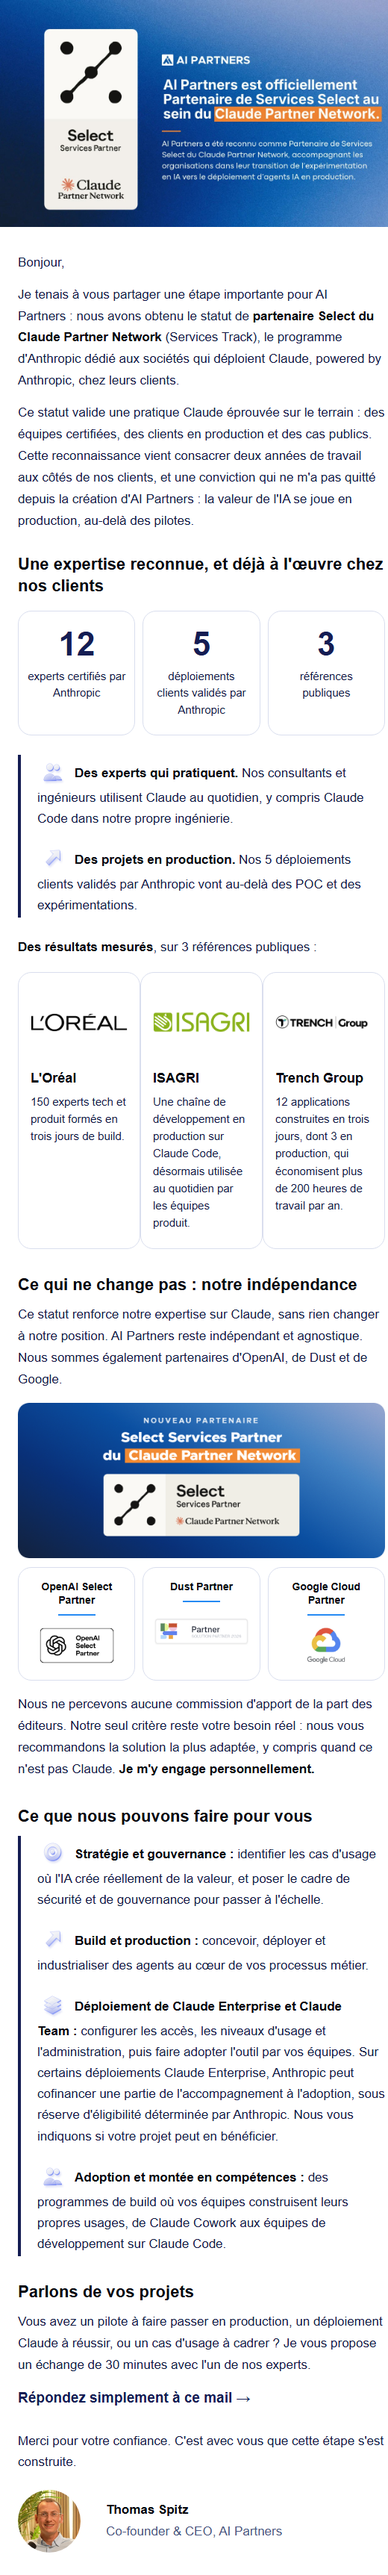
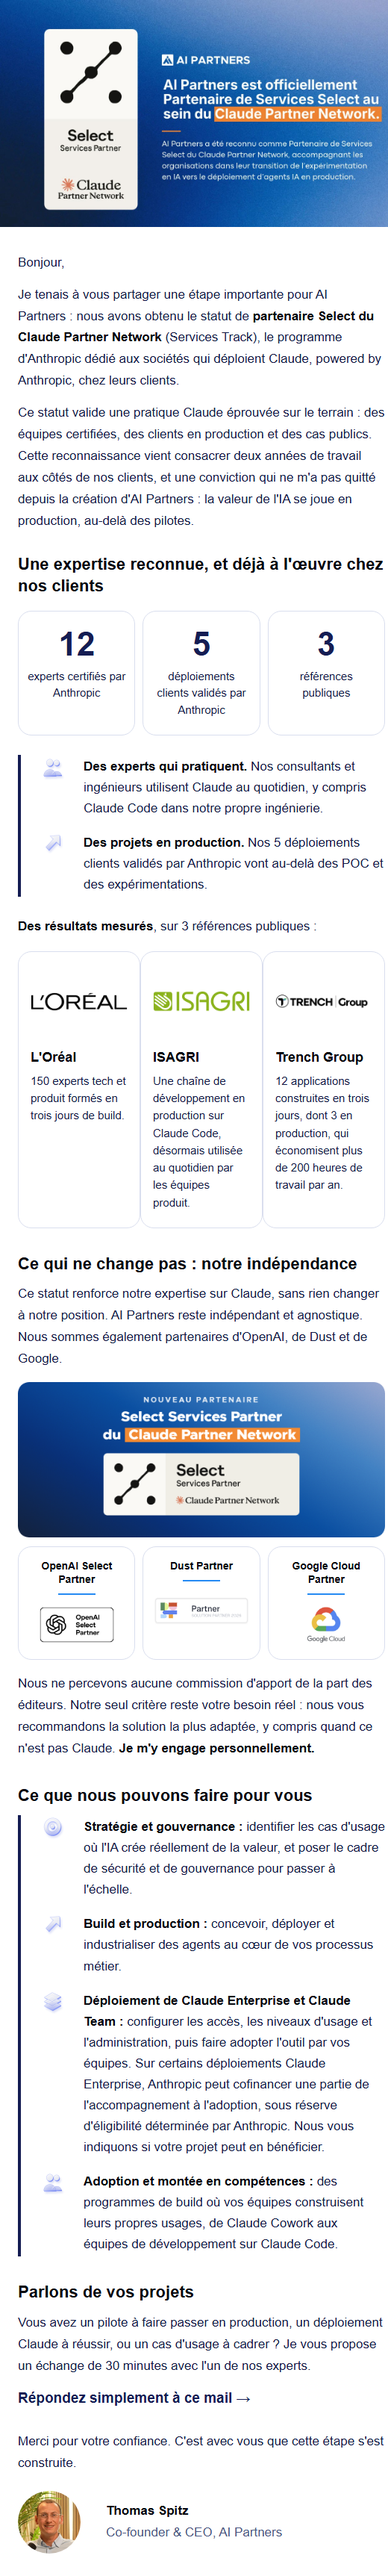
Mail d'annonce v2 : icône à gauche, texte aligné à droite dans les listes (retour d'Arthur 16/11)

diff --git a/PRESENTATIONS/2026-11_newsletter_anthropic_select/v2/email_hubspot_module.html b/PRESENTATIONS/2026-11_newsletter_anthropic_select/v2/email_hubspot_module.html
@@ -7,12 +7,12 @@
 <tr><td style="padding:0 4px 30px 4px;font-family:Helvetica, Arial, sans-serif;font-size:17px;line-height:1.7;color:#141B45">Ce statut valide une pratique Claude éprouvée sur le terrain&nbsp;: des équipes certifiées, des clients en production et des cas publics. Cette reconnaissance vient consacrer deux années de travail aux côtés de nos clients, et une conviction qui ne m'a pas quitté depuis la création d'AI Partners&nbsp;: la valeur de l'IA se joue en production, au-delà des pilotes.</td></tr>
 <tr><td style="padding:0px 4px 12px 4px"><h2 style="margin:0;font-family:Helvetica, Arial, sans-serif;font-size:22px;line-height:1.3;font-weight:bold;color:#05070F">Une expertise reconnue, et déjà à l'œuvre chez nos clients</h2></td></tr>
 <tr><td style="padding:6px 4px 26px 4px"><table role="presentation" width="100%" cellpadding="0" cellspacing="0" style="border-collapse:separate"><tr><td valign="top" width="32%" align="center" bgcolor="#FFFFFF" style="width:32%;background-color:#FFFFFF;border:1px solid #D9DEEE;border-radius:18px;padding:22px 12px 22px 12px;text-align:center"><div style="font-family:Helvetica, Arial, sans-serif;font-size:44px;line-height:1;font-weight:bold;color:#151D53">12</div><div style="padding-top:10px;font-family:Helvetica, Arial, sans-serif;font-size:15px;line-height:1.5;color:#141B45">experts certifiés par Anthropic</div></td><td width="2%" style="width:2%;font-size:0;line-height:0">&nbsp;</td><td valign="top" width="32%" align="center" bgcolor="#FFFFFF" style="width:32%;background-color:#FFFFFF;border:1px solid #D9DEEE;border-radius:18px;padding:22px 12px 22px 12px;text-align:center"><div style="font-family:Helvetica, Arial, sans-serif;font-size:44px;line-height:1;font-weight:bold;color:#151D53">5</div><div style="padding-top:10px;font-family:Helvetica, Arial, sans-serif;font-size:15px;line-height:1.5;color:#141B45">déploiements clients validés par Anthropic</div></td><td width="2%" style="width:2%;font-size:0;line-height:0">&nbsp;</td><td valign="top" width="32%" align="center" bgcolor="#FFFFFF" style="width:32%;background-color:#FFFFFF;border:1px solid #D9DEEE;border-radius:18px;padding:22px 12px 22px 12px;text-align:center"><div style="font-family:Helvetica, Arial, sans-serif;font-size:44px;line-height:1;font-weight:bold;color:#151D53">3</div><div style="padding-top:10px;font-family:Helvetica, Arial, sans-serif;font-size:15px;line-height:1.5;color:#141B45">références publiques</div></td></tr></table></td></tr>
-<tr><td style="padding:0 4px 26px 4px"><table role="presentation" width="100%" cellpadding="0" cellspacing="0"><tr><td style="border-left:4px solid #151D53;padding:2px 0 2px 22px;font-family:Helvetica, Arial, sans-serif;font-size:17px;line-height:1.65;color:#141B45"><div style="padding:0 0 18px 0"><img src="https://arthurw31.github.io/ai-partners-podcast-content-machine/newsletters/anthropic-select/v2/verre_users_42.png" width="42" height="42" alt="" style="display:inline-block;vertical-align:-14px;border:0;width:42px;height:42px;margin-right:8px"><strong style="color:#05070F">Des experts qui pratiquent.</strong> Nos consultants et ingénieurs utilisent Claude au quotidien, y compris Claude Code dans notre propre ingénierie.</div><div style="padding:0"><img src="https://arthurw31.github.io/ai-partners-podcast-content-machine/newsletters/anthropic-select/v2/verre_rocket_42.png" width="42" height="42" alt="" style="display:inline-block;vertical-align:-14px;border:0;width:42px;height:42px;margin-right:8px"><strong style="color:#05070F">Des projets en production.</strong> Nos 5 déploiements clients validés par Anthropic vont au-delà des POC et des expérimentations.</div></td></tr></table></td></tr>
+<tr><td style="padding:0 4px 26px 4px"><table role="presentation" width="100%" cellpadding="0" cellspacing="0"><tr><td style="border-left:4px solid #151D53;padding:2px 0 2px 22px;font-family:Helvetica, Arial, sans-serif;font-size:17px;line-height:1.65;color:#141B45"><table role="presentation" width="100%" cellpadding="0" cellspacing="0"><tr><td valign="top" width="52" style="width:52px;padding:0 10px 0 0"><img src="https://arthurw31.github.io/ai-partners-podcast-content-machine/newsletters/anthropic-select/v2/verre_users_42.png" width="42" height="42" alt="" style="display:block;border:0;width:42px;height:42px;margin-top:-6px"></td><td valign="top" style="padding:0 0 18px 0;font-family:Helvetica, Arial, sans-serif;font-size:17px;line-height:1.65;color:#141B45"><strong style="color:#05070F">Des experts qui pratiquent.</strong> Nos consultants et ingénieurs utilisent Claude au quotidien, y compris Claude Code dans notre propre ingénierie.</td></tr></table><table role="presentation" width="100%" cellpadding="0" cellspacing="0"><tr><td valign="top" width="52" style="width:52px;padding:0 10px 0 0"><img src="https://arthurw31.github.io/ai-partners-podcast-content-machine/newsletters/anthropic-select/v2/verre_rocket_42.png" width="42" height="42" alt="" style="display:block;border:0;width:42px;height:42px;margin-top:-6px"></td><td valign="top" style="padding:0 0 0 0;font-family:Helvetica, Arial, sans-serif;font-size:17px;line-height:1.65;color:#141B45"><strong style="color:#05070F">Des projets en production.</strong> Nos 5 déploiements clients validés par Anthropic vont au-delà des POC et des expérimentations.</td></tr></table></td></tr></table></td></tr>
 <tr><td style="padding:0 4px 14px 4px;font-family:Helvetica, Arial, sans-serif;font-size:17px;line-height:1.7;color:#141B45"><strong style="color:#05070F">Des résultats mesurés</strong>, sur 3 références publiques&nbsp;:</td></tr>
 <tr><td style="padding:4px 4px 34px 4px"><table role="presentation" width="100%" cellpadding="0" cellspacing="0" style="border-collapse:separate"><tr><td valign="top" width="32%" bgcolor="#FFFFFF" style="width:32%;background-color:#FFFFFF;border:1px solid #D9DEEE;border-radius:18px;padding:18px 16px 22px 16px"><table role="presentation" width="100%" cellpadding="0" cellspacing="0"><tr><td height="96" align="center" valign="middle" style="height:96px"><img src="https://arthurw31.github.io/ai-partners-podcast-content-machine/newsletters/anthropic-select/v2/client_loreal.png" width="130" height="25" alt="L'Oréal" style="display:block;border:0;width:130px;height:25px;margin:0 auto"></td></tr></table><div style="padding:16px 0 8px 0;font-family:Helvetica, Arial, sans-serif;font-size:18px;line-height:1.25;font-weight:bold;color:#05070F">L'Oréal</div><div style="font-family:Helvetica, Arial, sans-serif;font-size:15px;line-height:1.55;color:#141B45">150 experts tech et produit formés en trois jours de build.</div></td><td width="2%" style="width:2%;font-size:0;line-height:0">&nbsp;</td><td valign="top" width="32%" bgcolor="#FFFFFF" style="width:32%;background-color:#FFFFFF;border:1px solid #D9DEEE;border-radius:18px;padding:18px 16px 22px 16px"><table role="presentation" width="100%" cellpadding="0" cellspacing="0"><tr><td height="96" align="center" valign="middle" style="height:96px"><img src="https://arthurw31.github.io/ai-partners-podcast-content-machine/newsletters/anthropic-select/v2/client_isagri.png" width="130" height="28" alt="ISAGRI" style="display:block;border:0;width:130px;height:28px;margin:0 auto"></td></tr></table><div style="padding:16px 0 8px 0;font-family:Helvetica, Arial, sans-serif;font-size:18px;line-height:1.25;font-weight:bold;color:#05070F">ISAGRI</div><div style="font-family:Helvetica, Arial, sans-serif;font-size:15px;line-height:1.55;color:#141B45">Une chaîne de développement en production sur Claude Code, désormais utilisée au quotidien par les équipes produit.</div></td><td width="2%" style="width:2%;font-size:0;line-height:0">&nbsp;</td><td valign="top" width="32%" bgcolor="#FFFFFF" style="width:32%;background-color:#FFFFFF;border:1px solid #D9DEEE;border-radius:18px;padding:18px 16px 22px 16px"><table role="presentation" width="100%" cellpadding="0" cellspacing="0"><tr><td height="96" align="center" valign="middle" style="height:96px"><img src="https://arthurw31.github.io/ai-partners-podcast-content-machine/newsletters/anthropic-select/v2/client_trench.png" width="130" height="18" alt="Trench Group" style="display:block;border:0;width:130px;height:18px;margin:0 auto"></td></tr></table><div style="padding:16px 0 8px 0;font-family:Helvetica, Arial, sans-serif;font-size:18px;line-height:1.25;font-weight:bold;color:#05070F">Trench Group</div><div style="font-family:Helvetica, Arial, sans-serif;font-size:15px;line-height:1.55;color:#141B45">12 applications construites en trois jours, dont 3 en production, qui économisent plus de 200 heures de travail par an.</div></td></tr></table></td></tr>
 <tr><td style="padding:0px 4px 12px 4px"><h2 style="margin:0;font-family:Helvetica, Arial, sans-serif;font-size:22px;line-height:1.3;font-weight:bold;color:#05070F">Ce qui ne change pas&nbsp;: notre indépendance</h2></td></tr><tr><td style="padding:0 4px 16px 4px;font-family:Helvetica, Arial, sans-serif;font-size:17px;line-height:1.7;color:#141B45">Ce statut renforce notre expertise sur Claude, sans rien changer à notre position. AI Partners reste indépendant et agnostique. Nous sommes également partenaires d'OpenAI, de Dust et de Google.</td></tr><tr><td style="padding:0 4px"><img src="https://arthurw31.github.io/ai-partners-podcast-content-machine/newsletters/anthropic-select/v2/encadre_nouveau_partenaire.png" width="592" height="250" alt="Nouveau partenaire : Select Services Partner du Claude Partner Network" style="display:block;border:0;width:592px;height:250px;width:100%;max-width:592px;height:auto"><div style="height:12px;font-size:0;line-height:0">&nbsp;</div><table role="presentation" width="100%" cellpadding="0" cellspacing="0" style="border-collapse:separate"><tr><td width="32%" valign="top" align="center" bgcolor="#FFFFFF" style="width:32%;border:1px solid #D9DEEE;border-radius:18px;padding:16px 6px 18px 6px;font-family:Helvetica, Arial, sans-serif;text-align:center"><div style="font-size:14px;line-height:1.3;font-weight:bold;color:#05070F">OpenAI Select Partner</div><table role="presentation" align="center" cellpadding="0" cellspacing="0" style="margin:10px auto 12px auto"><tr><td width="50" height="2" bgcolor="#258AF3" style="width:50px;height:2px;font-size:0;line-height:0">&nbsp;</td></tr></table><table role="presentation" align="center" cellpadding="0" cellspacing="0"><tr><td height="56" valign="middle" align="center" style="height:56px"><img src="https://arthurw31.github.io/ai-partners-podcast-content-machine/newsletters/anthropic-select/v2/partenaire_openai.png" width="106" height="54" alt="OpenAI Select Partner" style="display:block;border:0;width:106px;height:54px;"></td></tr></table></td><td width="2%" style="width:2%;font-size:0;line-height:0">&nbsp;</td><td width="32%" valign="top" align="center" bgcolor="#FFFFFF" style="width:32%;border:1px solid #D9DEEE;border-radius:18px;padding:16px 6px 18px 6px;font-family:Helvetica, Arial, sans-serif;text-align:center"><div style="font-size:14px;line-height:1.3;font-weight:bold;color:#05070F">Dust Partner</div><table role="presentation" align="center" cellpadding="0" cellspacing="0" style="margin:10px auto 12px auto"><tr><td width="50" height="2" bgcolor="#258AF3" style="width:50px;height:2px;font-size:0;line-height:0">&nbsp;</td></tr></table><table role="presentation" align="center" cellpadding="0" cellspacing="0"><tr><td height="56" valign="middle" align="center" style="height:56px"><img src="https://arthurw31.github.io/ai-partners-podcast-content-machine/newsletters/anthropic-select/v2/partenaire_dust.png" width="130" height="39" alt="Dust Partner" style="display:block;border:0;width:130px;height:39px;"></td></tr></table></td><td width="2%" style="width:2%;font-size:0;line-height:0">&nbsp;</td><td width="32%" valign="top" align="center" bgcolor="#FFFFFF" style="width:32%;border:1px solid #D9DEEE;border-radius:18px;padding:16px 6px 18px 6px;font-family:Helvetica, Arial, sans-serif;text-align:center"><div style="font-size:14px;line-height:1.3;font-weight:bold;color:#05070F">Google Cloud Partner</div><table role="presentation" align="center" cellpadding="0" cellspacing="0" style="margin:10px auto 12px auto"><tr><td width="50" height="2" bgcolor="#258AF3" style="width:50px;height:2px;font-size:0;line-height:0">&nbsp;</td></tr></table><table role="presentation" align="center" cellpadding="0" cellspacing="0"><tr><td height="56" valign="middle" align="center" style="height:56px"><img src="https://arthurw31.github.io/ai-partners-podcast-content-machine/newsletters/anthropic-select/v2/partenaire_google.png" width="58" height="56" alt="Google Cloud Partner" style="display:block;border:0;width:58px;height:56px;"></td></tr></table></td></tr></table></td></tr><tr><td style="padding:18px 4px 34px 4px;font-family:Helvetica, Arial, sans-serif;font-size:17px;line-height:1.7;color:#141B45">Nous ne percevons aucune commission d'apport de la part des éditeurs. Notre seul critère reste votre besoin réel&nbsp;: nous vous recommandons la solution la plus adaptée, y compris quand ce n'est pas Claude. <strong style="color:#05070F">Je m'y engage personnellement.</strong></td></tr>
 <tr><td style="padding:0px 4px 12px 4px"><h2 style="margin:0;font-family:Helvetica, Arial, sans-serif;font-size:22px;line-height:1.3;font-weight:bold;color:#05070F">Ce que nous pouvons faire pour vous</h2></td></tr>
-<tr><td style="padding:0 4px 26px 4px"><table role="presentation" width="100%" cellpadding="0" cellspacing="0"><tr><td style="border-left:4px solid #151D53;padding:2px 0 2px 22px;font-family:Helvetica, Arial, sans-serif;font-size:17px;line-height:1.65;color:#141B45"><div style="padding:0 0 18px 0"><img src="https://arthurw31.github.io/ai-partners-podcast-content-machine/newsletters/anthropic-select/v2/verre_target_42.png" width="42" height="42" alt="" style="display:inline-block;vertical-align:-14px;border:0;width:42px;height:42px;margin-right:8px"><strong style="color:#05070F">Stratégie et gouvernance&nbsp;:</strong> identifier les cas d'usage où l'IA crée réellement de la valeur, et poser le cadre de sécurité et de gouvernance pour passer à l'échelle.</div><div style="padding:0 0 18px 0"><img src="https://arthurw31.github.io/ai-partners-podcast-content-machine/newsletters/anthropic-select/v2/verre_rocket_42.png" width="42" height="42" alt="" style="display:inline-block;vertical-align:-14px;border:0;width:42px;height:42px;margin-right:8px"><strong style="color:#05070F">Build et production&nbsp;:</strong> concevoir, déployer et industrialiser des agents au cœur de vos processus métier.</div><div style="padding:0 0 18px 0"><img src="https://arthurw31.github.io/ai-partners-podcast-content-machine/newsletters/anthropic-select/v2/verre_layers_42.png" width="42" height="42" alt="" style="display:inline-block;vertical-align:-14px;border:0;width:42px;height:42px;margin-right:8px"><strong style="color:#05070F">Déploiement de Claude Enterprise et Claude Team&nbsp;:</strong> configurer les accès, les niveaux d'usage et l'administration, puis faire adopter l'outil par vos équipes. Sur certains déploiements Claude Enterprise, Anthropic peut cofinancer une partie de l'accompagnement à l'adoption, sous réserve d'éligibilité déterminée par Anthropic. Nous vous indiquons si votre projet peut en bénéficier.</div><div style="padding:0"><img src="https://arthurw31.github.io/ai-partners-podcast-content-machine/newsletters/anthropic-select/v2/verre_users_42.png" width="42" height="42" alt="" style="display:inline-block;vertical-align:-14px;border:0;width:42px;height:42px;margin-right:8px"><strong style="color:#05070F">Adoption et montée en compétences&nbsp;:</strong> des programmes de build où vos équipes construisent leurs propres usages, de Claude Cowork aux équipes de développement sur Claude Code.</div></td></tr></table></td></tr>
+<tr><td style="padding:0 4px 26px 4px"><table role="presentation" width="100%" cellpadding="0" cellspacing="0"><tr><td style="border-left:4px solid #151D53;padding:2px 0 2px 22px;font-family:Helvetica, Arial, sans-serif;font-size:17px;line-height:1.65;color:#141B45"><table role="presentation" width="100%" cellpadding="0" cellspacing="0"><tr><td valign="top" width="52" style="width:52px;padding:0 10px 0 0"><img src="https://arthurw31.github.io/ai-partners-podcast-content-machine/newsletters/anthropic-select/v2/verre_target_42.png" width="42" height="42" alt="" style="display:block;border:0;width:42px;height:42px;margin-top:-6px"></td><td valign="top" style="padding:0 0 18px 0;font-family:Helvetica, Arial, sans-serif;font-size:17px;line-height:1.65;color:#141B45"><strong style="color:#05070F">Stratégie et gouvernance&nbsp;:</strong> identifier les cas d'usage où l'IA crée réellement de la valeur, et poser le cadre de sécurité et de gouvernance pour passer à l'échelle.</td></tr></table><table role="presentation" width="100%" cellpadding="0" cellspacing="0"><tr><td valign="top" width="52" style="width:52px;padding:0 10px 0 0"><img src="https://arthurw31.github.io/ai-partners-podcast-content-machine/newsletters/anthropic-select/v2/verre_rocket_42.png" width="42" height="42" alt="" style="display:block;border:0;width:42px;height:42px;margin-top:-6px"></td><td valign="top" style="padding:0 0 18px 0;font-family:Helvetica, Arial, sans-serif;font-size:17px;line-height:1.65;color:#141B45"><strong style="color:#05070F">Build et production&nbsp;:</strong> concevoir, déployer et industrialiser des agents au cœur de vos processus métier.</td></tr></table><table role="presentation" width="100%" cellpadding="0" cellspacing="0"><tr><td valign="top" width="52" style="width:52px;padding:0 10px 0 0"><img src="https://arthurw31.github.io/ai-partners-podcast-content-machine/newsletters/anthropic-select/v2/verre_layers_42.png" width="42" height="42" alt="" style="display:block;border:0;width:42px;height:42px;margin-top:-6px"></td><td valign="top" style="padding:0 0 18px 0;font-family:Helvetica, Arial, sans-serif;font-size:17px;line-height:1.65;color:#141B45"><strong style="color:#05070F">Déploiement de Claude Enterprise et Claude Team&nbsp;:</strong> configurer les accès, les niveaux d'usage et l'administration, puis faire adopter l'outil par vos équipes. Sur certains déploiements Claude Enterprise, Anthropic peut cofinancer une partie de l'accompagnement à l'adoption, sous réserve d'éligibilité déterminée par Anthropic. Nous vous indiquons si votre projet peut en bénéficier.</td></tr></table><table role="presentation" width="100%" cellpadding="0" cellspacing="0"><tr><td valign="top" width="52" style="width:52px;padding:0 10px 0 0"><img src="https://arthurw31.github.io/ai-partners-podcast-content-machine/newsletters/anthropic-select/v2/verre_users_42.png" width="42" height="42" alt="" style="display:block;border:0;width:42px;height:42px;margin-top:-6px"></td><td valign="top" style="padding:0 0 0 0;font-family:Helvetica, Arial, sans-serif;font-size:17px;line-height:1.65;color:#141B45"><strong style="color:#05070F">Adoption et montée en compétences&nbsp;:</strong> des programmes de build où vos équipes construisent leurs propres usages, de Claude Cowork aux équipes de développement sur Claude Code.</td></tr></table></td></tr></table></td></tr>
 <tr><td style="padding:8px 4px 12px 4px"><h2 style="margin:0;font-family:Helvetica, Arial, sans-serif;font-size:22px;line-height:1.3;font-weight:bold;color:#05070F">Parlons de vos projets</h2></td></tr>
 <tr><td style="padding:0 4px 16px 4px;font-family:Helvetica, Arial, sans-serif;font-size:17px;line-height:1.7;color:#141B45">Vous avez un pilote à faire passer en production, un déploiement Claude à réussir, ou un cas d'usage à cadrer&nbsp;? Je vous propose un échange de 30 minutes avec l'un de nos experts.</td></tr>
 <tr><td style="padding:0 4px 30px 4px;font-family:Helvetica, Arial, sans-serif;font-size:19px;line-height:1.4;font-weight:bold;color:#151D53">Répondez simplement à ce mail &rarr;</td></tr>

diff --git a/PRESENTATIONS/2026-11_newsletter_anthropic_select/v2/email.html b/PRESENTATIONS/2026-11_newsletter_anthropic_select/v2/email.html
@@ -11,12 +11,12 @@
 <tr><td style="padding:0 4px 30px 4px;font-family:Helvetica, Arial, sans-serif;font-size:17px;line-height:1.7;color:#141B45">Ce statut valide une pratique Claude éprouvée sur le terrain&nbsp;: des équipes certifiées, des clients en production et des cas publics. Cette reconnaissance vient consacrer deux années de travail aux côtés de nos clients, et une conviction qui ne m'a pas quitté depuis la création d'AI Partners&nbsp;: la valeur de l'IA se joue en production, au-delà des pilotes.</td></tr>
 <tr><td style="padding:0px 4px 12px 4px"><h2 style="margin:0;font-family:Helvetica, Arial, sans-serif;font-size:22px;line-height:1.3;font-weight:bold;color:#05070F">Une expertise reconnue, et déjà à l'œuvre chez nos clients</h2></td></tr>
 <tr><td style="padding:6px 4px 26px 4px"><table role="presentation" width="100%" cellpadding="0" cellspacing="0" style="border-collapse:separate"><tr><td valign="top" width="32%" align="center" bgcolor="#FFFFFF" style="width:32%;background-color:#FFFFFF;border:1px solid #D9DEEE;border-radius:18px;padding:22px 12px 22px 12px;text-align:center"><div style="font-family:Helvetica, Arial, sans-serif;font-size:44px;line-height:1;font-weight:bold;color:#151D53">12</div><div style="padding-top:10px;font-family:Helvetica, Arial, sans-serif;font-size:15px;line-height:1.5;color:#141B45">experts certifiés par Anthropic</div></td><td width="2%" style="width:2%;font-size:0;line-height:0">&nbsp;</td><td valign="top" width="32%" align="center" bgcolor="#FFFFFF" style="width:32%;background-color:#FFFFFF;border:1px solid #D9DEEE;border-radius:18px;padding:22px 12px 22px 12px;text-align:center"><div style="font-family:Helvetica, Arial, sans-serif;font-size:44px;line-height:1;font-weight:bold;color:#151D53">5</div><div style="padding-top:10px;font-family:Helvetica, Arial, sans-serif;font-size:15px;line-height:1.5;color:#141B45">déploiements clients validés par Anthropic</div></td><td width="2%" style="width:2%;font-size:0;line-height:0">&nbsp;</td><td valign="top" width="32%" align="center" bgcolor="#FFFFFF" style="width:32%;background-color:#FFFFFF;border:1px solid #D9DEEE;border-radius:18px;padding:22px 12px 22px 12px;text-align:center"><div style="font-family:Helvetica, Arial, sans-serif;font-size:44px;line-height:1;font-weight:bold;color:#151D53">3</div><div style="padding-top:10px;font-family:Helvetica, Arial, sans-serif;font-size:15px;line-height:1.5;color:#141B45">références publiques</div></td></tr></table></td></tr>
-<tr><td style="padding:0 4px 26px 4px"><table role="presentation" width="100%" cellpadding="0" cellspacing="0"><tr><td style="border-left:4px solid #151D53;padding:2px 0 2px 22px;font-family:Helvetica, Arial, sans-serif;font-size:17px;line-height:1.65;color:#141B45"><div style="padding:0 0 18px 0"><img src="images/verre_users_42.png" width="42" height="42" alt="" style="display:inline-block;vertical-align:-14px;border:0;width:42px;height:42px;margin-right:8px"><strong style="color:#05070F">Des experts qui pratiquent.</strong> Nos consultants et ingénieurs utilisent Claude au quotidien, y compris Claude Code dans notre propre ingénierie.</div><div style="padding:0"><img src="images/verre_rocket_42.png" width="42" height="42" alt="" style="display:inline-block;vertical-align:-14px;border:0;width:42px;height:42px;margin-right:8px"><strong style="color:#05070F">Des projets en production.</strong> Nos 5 déploiements clients validés par Anthropic vont au-delà des POC et des expérimentations.</div></td></tr></table></td></tr>
+<tr><td style="padding:0 4px 26px 4px"><table role="presentation" width="100%" cellpadding="0" cellspacing="0"><tr><td style="border-left:4px solid #151D53;padding:2px 0 2px 22px;font-family:Helvetica, Arial, sans-serif;font-size:17px;line-height:1.65;color:#141B45"><table role="presentation" width="100%" cellpadding="0" cellspacing="0"><tr><td valign="top" width="52" style="width:52px;padding:0 10px 0 0"><img src="images/verre_users_42.png" width="42" height="42" alt="" style="display:block;border:0;width:42px;height:42px;margin-top:-6px"></td><td valign="top" style="padding:0 0 18px 0;font-family:Helvetica, Arial, sans-serif;font-size:17px;line-height:1.65;color:#141B45"><strong style="color:#05070F">Des experts qui pratiquent.</strong> Nos consultants et ingénieurs utilisent Claude au quotidien, y compris Claude Code dans notre propre ingénierie.</td></tr></table><table role="presentation" width="100%" cellpadding="0" cellspacing="0"><tr><td valign="top" width="52" style="width:52px;padding:0 10px 0 0"><img src="images/verre_rocket_42.png" width="42" height="42" alt="" style="display:block;border:0;width:42px;height:42px;margin-top:-6px"></td><td valign="top" style="padding:0 0 0 0;font-family:Helvetica, Arial, sans-serif;font-size:17px;line-height:1.65;color:#141B45"><strong style="color:#05070F">Des projets en production.</strong> Nos 5 déploiements clients validés par Anthropic vont au-delà des POC et des expérimentations.</td></tr></table></td></tr></table></td></tr>
 <tr><td style="padding:0 4px 14px 4px;font-family:Helvetica, Arial, sans-serif;font-size:17px;line-height:1.7;color:#141B45"><strong style="color:#05070F">Des résultats mesurés</strong>, sur 3 références publiques&nbsp;:</td></tr>
 <tr><td style="padding:4px 4px 34px 4px"><table role="presentation" width="100%" cellpadding="0" cellspacing="0" style="border-collapse:separate"><tr><td valign="top" width="32%" bgcolor="#FFFFFF" style="width:32%;background-color:#FFFFFF;border:1px solid #D9DEEE;border-radius:18px;padding:18px 16px 22px 16px"><table role="presentation" width="100%" cellpadding="0" cellspacing="0"><tr><td height="96" align="center" valign="middle" style="height:96px"><img src="images/client_loreal.png" width="130" height="25" alt="L'Oréal" style="display:block;border:0;width:130px;height:25px;margin:0 auto"></td></tr></table><div style="padding:16px 0 8px 0;font-family:Helvetica, Arial, sans-serif;font-size:18px;line-height:1.25;font-weight:bold;color:#05070F">L'Oréal</div><div style="font-family:Helvetica, Arial, sans-serif;font-size:15px;line-height:1.55;color:#141B45">150 experts tech et produit formés en trois jours de build.</div></td><td width="2%" style="width:2%;font-size:0;line-height:0">&nbsp;</td><td valign="top" width="32%" bgcolor="#FFFFFF" style="width:32%;background-color:#FFFFFF;border:1px solid #D9DEEE;border-radius:18px;padding:18px 16px 22px 16px"><table role="presentation" width="100%" cellpadding="0" cellspacing="0"><tr><td height="96" align="center" valign="middle" style="height:96px"><img src="images/client_isagri.png" width="130" height="28" alt="ISAGRI" style="display:block;border:0;width:130px;height:28px;margin:0 auto"></td></tr></table><div style="padding:16px 0 8px 0;font-family:Helvetica, Arial, sans-serif;font-size:18px;line-height:1.25;font-weight:bold;color:#05070F">ISAGRI</div><div style="font-family:Helvetica, Arial, sans-serif;font-size:15px;line-height:1.55;color:#141B45">Une chaîne de développement en production sur Claude Code, désormais utilisée au quotidien par les équipes produit.</div></td><td width="2%" style="width:2%;font-size:0;line-height:0">&nbsp;</td><td valign="top" width="32%" bgcolor="#FFFFFF" style="width:32%;background-color:#FFFFFF;border:1px solid #D9DEEE;border-radius:18px;padding:18px 16px 22px 16px"><table role="presentation" width="100%" cellpadding="0" cellspacing="0"><tr><td height="96" align="center" valign="middle" style="height:96px"><img src="images/client_trench.png" width="130" height="18" alt="Trench Group" style="display:block;border:0;width:130px;height:18px;margin:0 auto"></td></tr></table><div style="padding:16px 0 8px 0;font-family:Helvetica, Arial, sans-serif;font-size:18px;line-height:1.25;font-weight:bold;color:#05070F">Trench Group</div><div style="font-family:Helvetica, Arial, sans-serif;font-size:15px;line-height:1.55;color:#141B45">12 applications construites en trois jours, dont 3 en production, qui économisent plus de 200 heures de travail par an.</div></td></tr></table></td></tr>
 <tr><td style="padding:0px 4px 12px 4px"><h2 style="margin:0;font-family:Helvetica, Arial, sans-serif;font-size:22px;line-height:1.3;font-weight:bold;color:#05070F">Ce qui ne change pas&nbsp;: notre indépendance</h2></td></tr><tr><td style="padding:0 4px 16px 4px;font-family:Helvetica, Arial, sans-serif;font-size:17px;line-height:1.7;color:#141B45">Ce statut renforce notre expertise sur Claude, sans rien changer à notre position. AI Partners reste indépendant et agnostique. Nous sommes également partenaires d'OpenAI, de Dust et de Google.</td></tr><tr><td style="padding:0 4px"><img src="images/encadre_nouveau_partenaire.png" width="592" height="250" alt="Nouveau partenaire : Select Services Partner du Claude Partner Network" style="display:block;border:0;width:592px;height:250px;width:100%;max-width:592px;height:auto"><div style="height:12px;font-size:0;line-height:0">&nbsp;</div><table role="presentation" width="100%" cellpadding="0" cellspacing="0" style="border-collapse:separate"><tr><td width="32%" valign="top" align="center" bgcolor="#FFFFFF" style="width:32%;border:1px solid #D9DEEE;border-radius:18px;padding:16px 6px 18px 6px;font-family:Helvetica, Arial, sans-serif;text-align:center"><div style="font-size:14px;line-height:1.3;font-weight:bold;color:#05070F">OpenAI Select Partner</div><table role="presentation" align="center" cellpadding="0" cellspacing="0" style="margin:10px auto 12px auto"><tr><td width="50" height="2" bgcolor="#258AF3" style="width:50px;height:2px;font-size:0;line-height:0">&nbsp;</td></tr></table><table role="presentation" align="center" cellpadding="0" cellspacing="0"><tr><td height="56" valign="middle" align="center" style="height:56px"><img src="images/partenaire_openai.png" width="106" height="54" alt="OpenAI Select Partner" style="display:block;border:0;width:106px;height:54px;"></td></tr></table></td><td width="2%" style="width:2%;font-size:0;line-height:0">&nbsp;</td><td width="32%" valign="top" align="center" bgcolor="#FFFFFF" style="width:32%;border:1px solid #D9DEEE;border-radius:18px;padding:16px 6px 18px 6px;font-family:Helvetica, Arial, sans-serif;text-align:center"><div style="font-size:14px;line-height:1.3;font-weight:bold;color:#05070F">Dust Partner</div><table role="presentation" align="center" cellpadding="0" cellspacing="0" style="margin:10px auto 12px auto"><tr><td width="50" height="2" bgcolor="#258AF3" style="width:50px;height:2px;font-size:0;line-height:0">&nbsp;</td></tr></table><table role="presentation" align="center" cellpadding="0" cellspacing="0"><tr><td height="56" valign="middle" align="center" style="height:56px"><img src="images/partenaire_dust.png" width="130" height="39" alt="Dust Partner" style="display:block;border:0;width:130px;height:39px;"></td></tr></table></td><td width="2%" style="width:2%;font-size:0;line-height:0">&nbsp;</td><td width="32%" valign="top" align="center" bgcolor="#FFFFFF" style="width:32%;border:1px solid #D9DEEE;border-radius:18px;padding:16px 6px 18px 6px;font-family:Helvetica, Arial, sans-serif;text-align:center"><div style="font-size:14px;line-height:1.3;font-weight:bold;color:#05070F">Google Cloud Partner</div><table role="presentation" align="center" cellpadding="0" cellspacing="0" style="margin:10px auto 12px auto"><tr><td width="50" height="2" bgcolor="#258AF3" style="width:50px;height:2px;font-size:0;line-height:0">&nbsp;</td></tr></table><table role="presentation" align="center" cellpadding="0" cellspacing="0"><tr><td height="56" valign="middle" align="center" style="height:56px"><img src="images/partenaire_google.png" width="58" height="56" alt="Google Cloud Partner" style="display:block;border:0;width:58px;height:56px;"></td></tr></table></td></tr></table></td></tr><tr><td style="padding:18px 4px 34px 4px;font-family:Helvetica, Arial, sans-serif;font-size:17px;line-height:1.7;color:#141B45">Nous ne percevons aucune commission d'apport de la part des éditeurs. Notre seul critère reste votre besoin réel&nbsp;: nous vous recommandons la solution la plus adaptée, y compris quand ce n'est pas Claude. <strong style="color:#05070F">Je m'y engage personnellement.</strong></td></tr>
 <tr><td style="padding:0px 4px 12px 4px"><h2 style="margin:0;font-family:Helvetica, Arial, sans-serif;font-size:22px;line-height:1.3;font-weight:bold;color:#05070F">Ce que nous pouvons faire pour vous</h2></td></tr>
-<tr><td style="padding:0 4px 26px 4px"><table role="presentation" width="100%" cellpadding="0" cellspacing="0"><tr><td style="border-left:4px solid #151D53;padding:2px 0 2px 22px;font-family:Helvetica, Arial, sans-serif;font-size:17px;line-height:1.65;color:#141B45"><div style="padding:0 0 18px 0"><img src="images/verre_target_42.png" width="42" height="42" alt="" style="display:inline-block;vertical-align:-14px;border:0;width:42px;height:42px;margin-right:8px"><strong style="color:#05070F">Stratégie et gouvernance&nbsp;:</strong> identifier les cas d'usage où l'IA crée réellement de la valeur, et poser le cadre de sécurité et de gouvernance pour passer à l'échelle.</div><div style="padding:0 0 18px 0"><img src="images/verre_rocket_42.png" width="42" height="42" alt="" style="display:inline-block;vertical-align:-14px;border:0;width:42px;height:42px;margin-right:8px"><strong style="color:#05070F">Build et production&nbsp;:</strong> concevoir, déployer et industrialiser des agents au cœur de vos processus métier.</div><div style="padding:0 0 18px 0"><img src="images/verre_layers_42.png" width="42" height="42" alt="" style="display:inline-block;vertical-align:-14px;border:0;width:42px;height:42px;margin-right:8px"><strong style="color:#05070F">Déploiement de Claude Enterprise et Claude Team&nbsp;:</strong> configurer les accès, les niveaux d'usage et l'administration, puis faire adopter l'outil par vos équipes. Sur certains déploiements Claude Enterprise, Anthropic peut cofinancer une partie de l'accompagnement à l'adoption, sous réserve d'éligibilité déterminée par Anthropic. Nous vous indiquons si votre projet peut en bénéficier.</div><div style="padding:0"><img src="images/verre_users_42.png" width="42" height="42" alt="" style="display:inline-block;vertical-align:-14px;border:0;width:42px;height:42px;margin-right:8px"><strong style="color:#05070F">Adoption et montée en compétences&nbsp;:</strong> des programmes de build où vos équipes construisent leurs propres usages, de Claude Cowork aux équipes de développement sur Claude Code.</div></td></tr></table></td></tr>
+<tr><td style="padding:0 4px 26px 4px"><table role="presentation" width="100%" cellpadding="0" cellspacing="0"><tr><td style="border-left:4px solid #151D53;padding:2px 0 2px 22px;font-family:Helvetica, Arial, sans-serif;font-size:17px;line-height:1.65;color:#141B45"><table role="presentation" width="100%" cellpadding="0" cellspacing="0"><tr><td valign="top" width="52" style="width:52px;padding:0 10px 0 0"><img src="images/verre_target_42.png" width="42" height="42" alt="" style="display:block;border:0;width:42px;height:42px;margin-top:-6px"></td><td valign="top" style="padding:0 0 18px 0;font-family:Helvetica, Arial, sans-serif;font-size:17px;line-height:1.65;color:#141B45"><strong style="color:#05070F">Stratégie et gouvernance&nbsp;:</strong> identifier les cas d'usage où l'IA crée réellement de la valeur, et poser le cadre de sécurité et de gouvernance pour passer à l'échelle.</td></tr></table><table role="presentation" width="100%" cellpadding="0" cellspacing="0"><tr><td valign="top" width="52" style="width:52px;padding:0 10px 0 0"><img src="images/verre_rocket_42.png" width="42" height="42" alt="" style="display:block;border:0;width:42px;height:42px;margin-top:-6px"></td><td valign="top" style="padding:0 0 18px 0;font-family:Helvetica, Arial, sans-serif;font-size:17px;line-height:1.65;color:#141B45"><strong style="color:#05070F">Build et production&nbsp;:</strong> concevoir, déployer et industrialiser des agents au cœur de vos processus métier.</td></tr></table><table role="presentation" width="100%" cellpadding="0" cellspacing="0"><tr><td valign="top" width="52" style="width:52px;padding:0 10px 0 0"><img src="images/verre_layers_42.png" width="42" height="42" alt="" style="display:block;border:0;width:42px;height:42px;margin-top:-6px"></td><td valign="top" style="padding:0 0 18px 0;font-family:Helvetica, Arial, sans-serif;font-size:17px;line-height:1.65;color:#141B45"><strong style="color:#05070F">Déploiement de Claude Enterprise et Claude Team&nbsp;:</strong> configurer les accès, les niveaux d'usage et l'administration, puis faire adopter l'outil par vos équipes. Sur certains déploiements Claude Enterprise, Anthropic peut cofinancer une partie de l'accompagnement à l'adoption, sous réserve d'éligibilité déterminée par Anthropic. Nous vous indiquons si votre projet peut en bénéficier.</td></tr></table><table role="presentation" width="100%" cellpadding="0" cellspacing="0"><tr><td valign="top" width="52" style="width:52px;padding:0 10px 0 0"><img src="images/verre_users_42.png" width="42" height="42" alt="" style="display:block;border:0;width:42px;height:42px;margin-top:-6px"></td><td valign="top" style="padding:0 0 0 0;font-family:Helvetica, Arial, sans-serif;font-size:17px;line-height:1.65;color:#141B45"><strong style="color:#05070F">Adoption et montée en compétences&nbsp;:</strong> des programmes de build où vos équipes construisent leurs propres usages, de Claude Cowork aux équipes de développement sur Claude Code.</td></tr></table></td></tr></table></td></tr>
 <tr><td style="padding:8px 4px 12px 4px"><h2 style="margin:0;font-family:Helvetica, Arial, sans-serif;font-size:22px;line-height:1.3;font-weight:bold;color:#05070F">Parlons de vos projets</h2></td></tr>
 <tr><td style="padding:0 4px 16px 4px;font-family:Helvetica, Arial, sans-serif;font-size:17px;line-height:1.7;color:#141B45">Vous avez un pilote à faire passer en production, un déploiement Claude à réussir, ou un cas d'usage à cadrer&nbsp;? Je vous propose un échange de 30 minutes avec l'un de nos experts.</td></tr>
 <tr><td style="padding:0 4px 30px 4px;font-family:Helvetica, Arial, sans-serif;font-size:19px;line-height:1.4;font-weight:bold;color:#151D53">Répondez simplement à ce mail &rarr;</td></tr>

diff --git a/PRESENTATIONS/2026-11_newsletter_anthropic_select/v2/build_v2.py b/PRESENTATIONS/2026-11_newsletter_anthropic_select/v2/build_v2.py
@@ -97,12 +97,15 @@ def stats() -> str:
 
 def bar_list(items: list) -> str:
     """Liste à filet bleu nuit à gauche, icône en verre devant chaque point (style « Ce que cela change pour vous » de la référence)."""
+    # icône dans sa propre colonne, texte dans la colonne de droite : aucune ligne ne repasse sous l'icône (Arthur, 16/11/2026)
     rows = []
     for k, (icon, lead, text) in enumerate(items):
-        ico = (f'<img src="images/{icon}" width="42" height="42" alt="" style="display:inline-block;vertical-align:-14px;border:0;'
-               f'width:42px;height:42px;margin-right:8px">')
-        pad = "0" if k == len(items) - 1 else "0 0 18px 0"
-        rows.append(f'<div style="padding:{pad}">{ico}{strong(lead)} {text}</div>')
+        bottom = "0" if k == len(items) - 1 else "18px"
+        rows.append(f'<table role="presentation" width="100%" cellpadding="0" cellspacing="0"><tr>'
+                    f'<td valign="top" width="52" style="width:52px;padding:0 10px 0 0"><img src="images/{icon}" width="42" height="42" '
+                    f'alt="" style="display:block;border:0;width:42px;height:42px;margin-top:-6px"></td>'
+                    f'<td valign="top" style="padding:0 0 {bottom} 0;{F};font-size:17px;line-height:1.65;color:{TEXT}">'
+                    f'{strong(lead)} {text}</td></tr></table>')
     return (f'<tr><td style="padding:0 4px 26px 4px"><table role="presentation" width="100%" cellpadding="0" cellspacing="0"><tr>'
             f'<td style="border-left:4px solid {NAVY};padding:2px 0 2px 22px;{F};font-size:17px;line-height:1.65;color:{TEXT}">'
             + "".join(rows) + "</td></tr></table></td></tr>")
